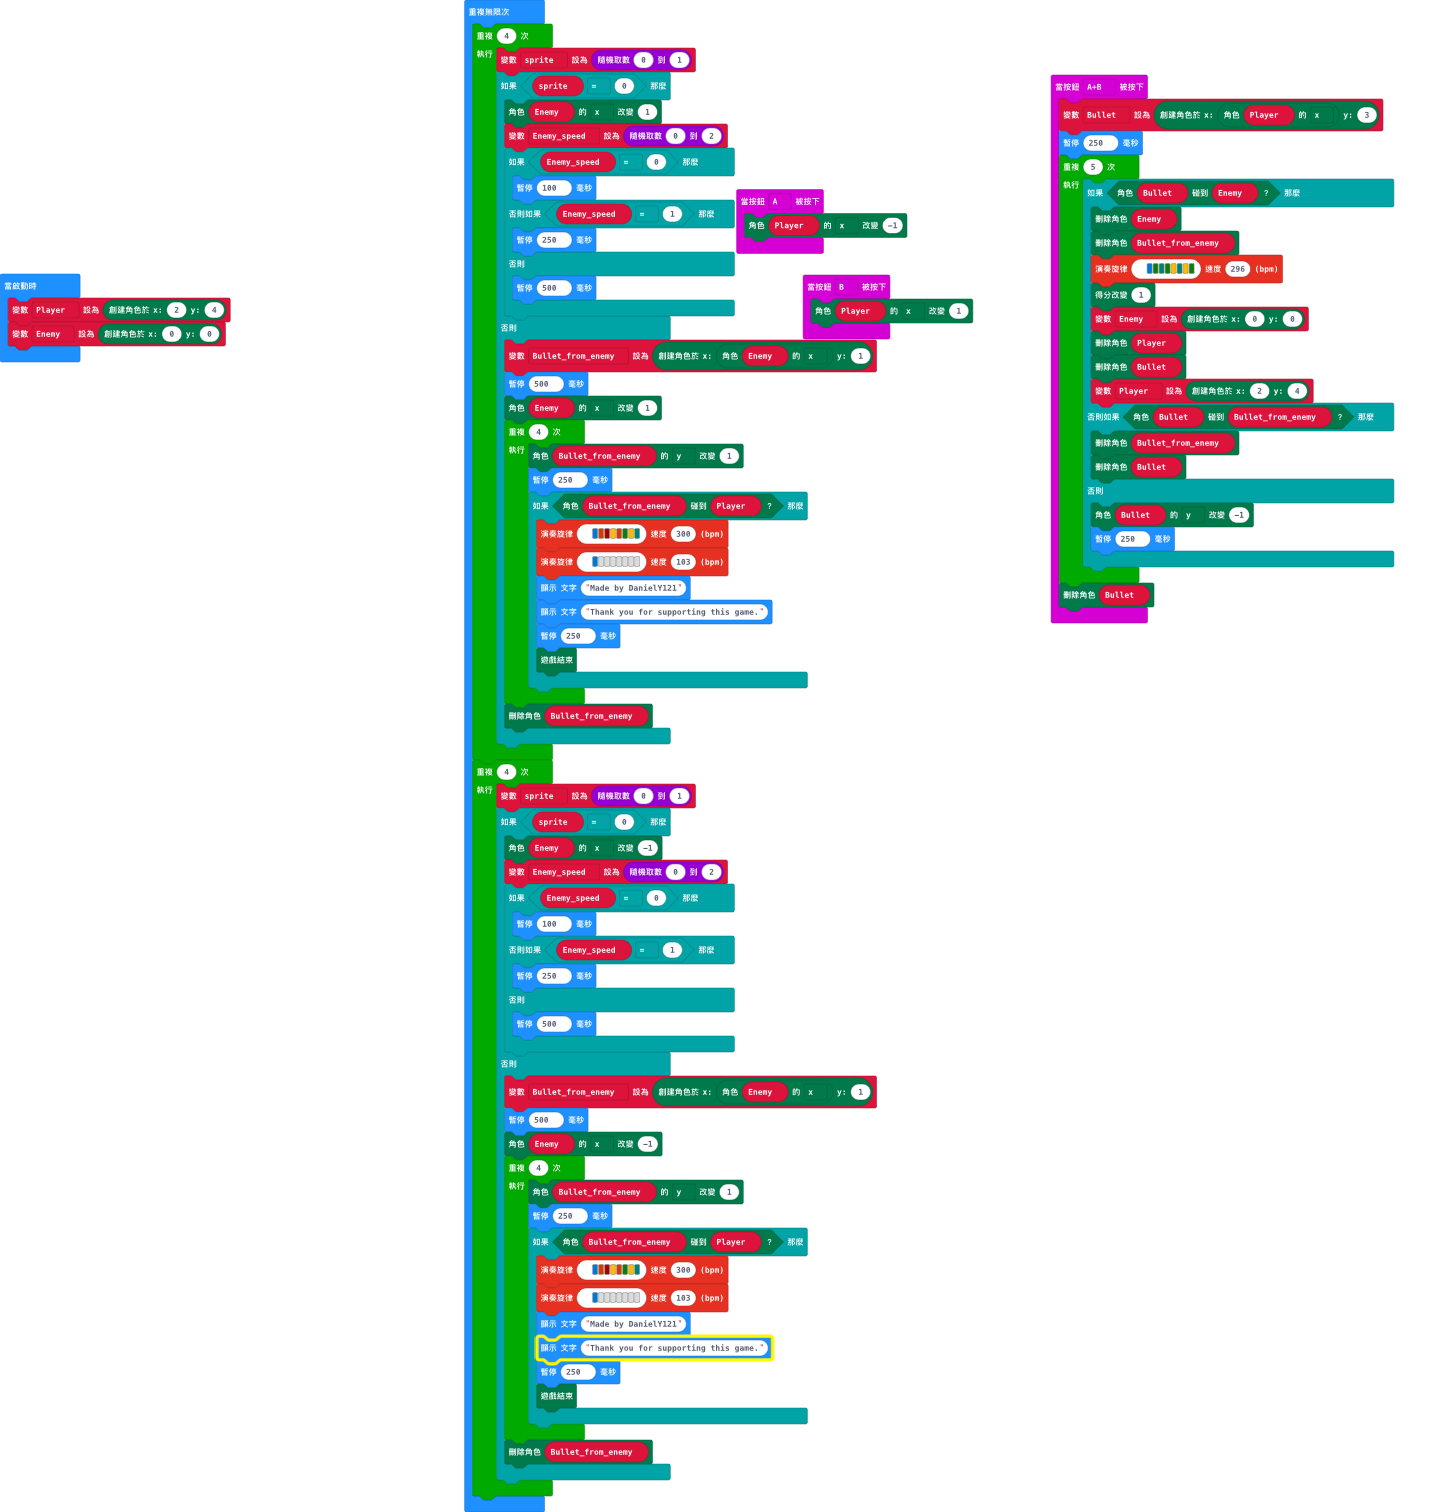
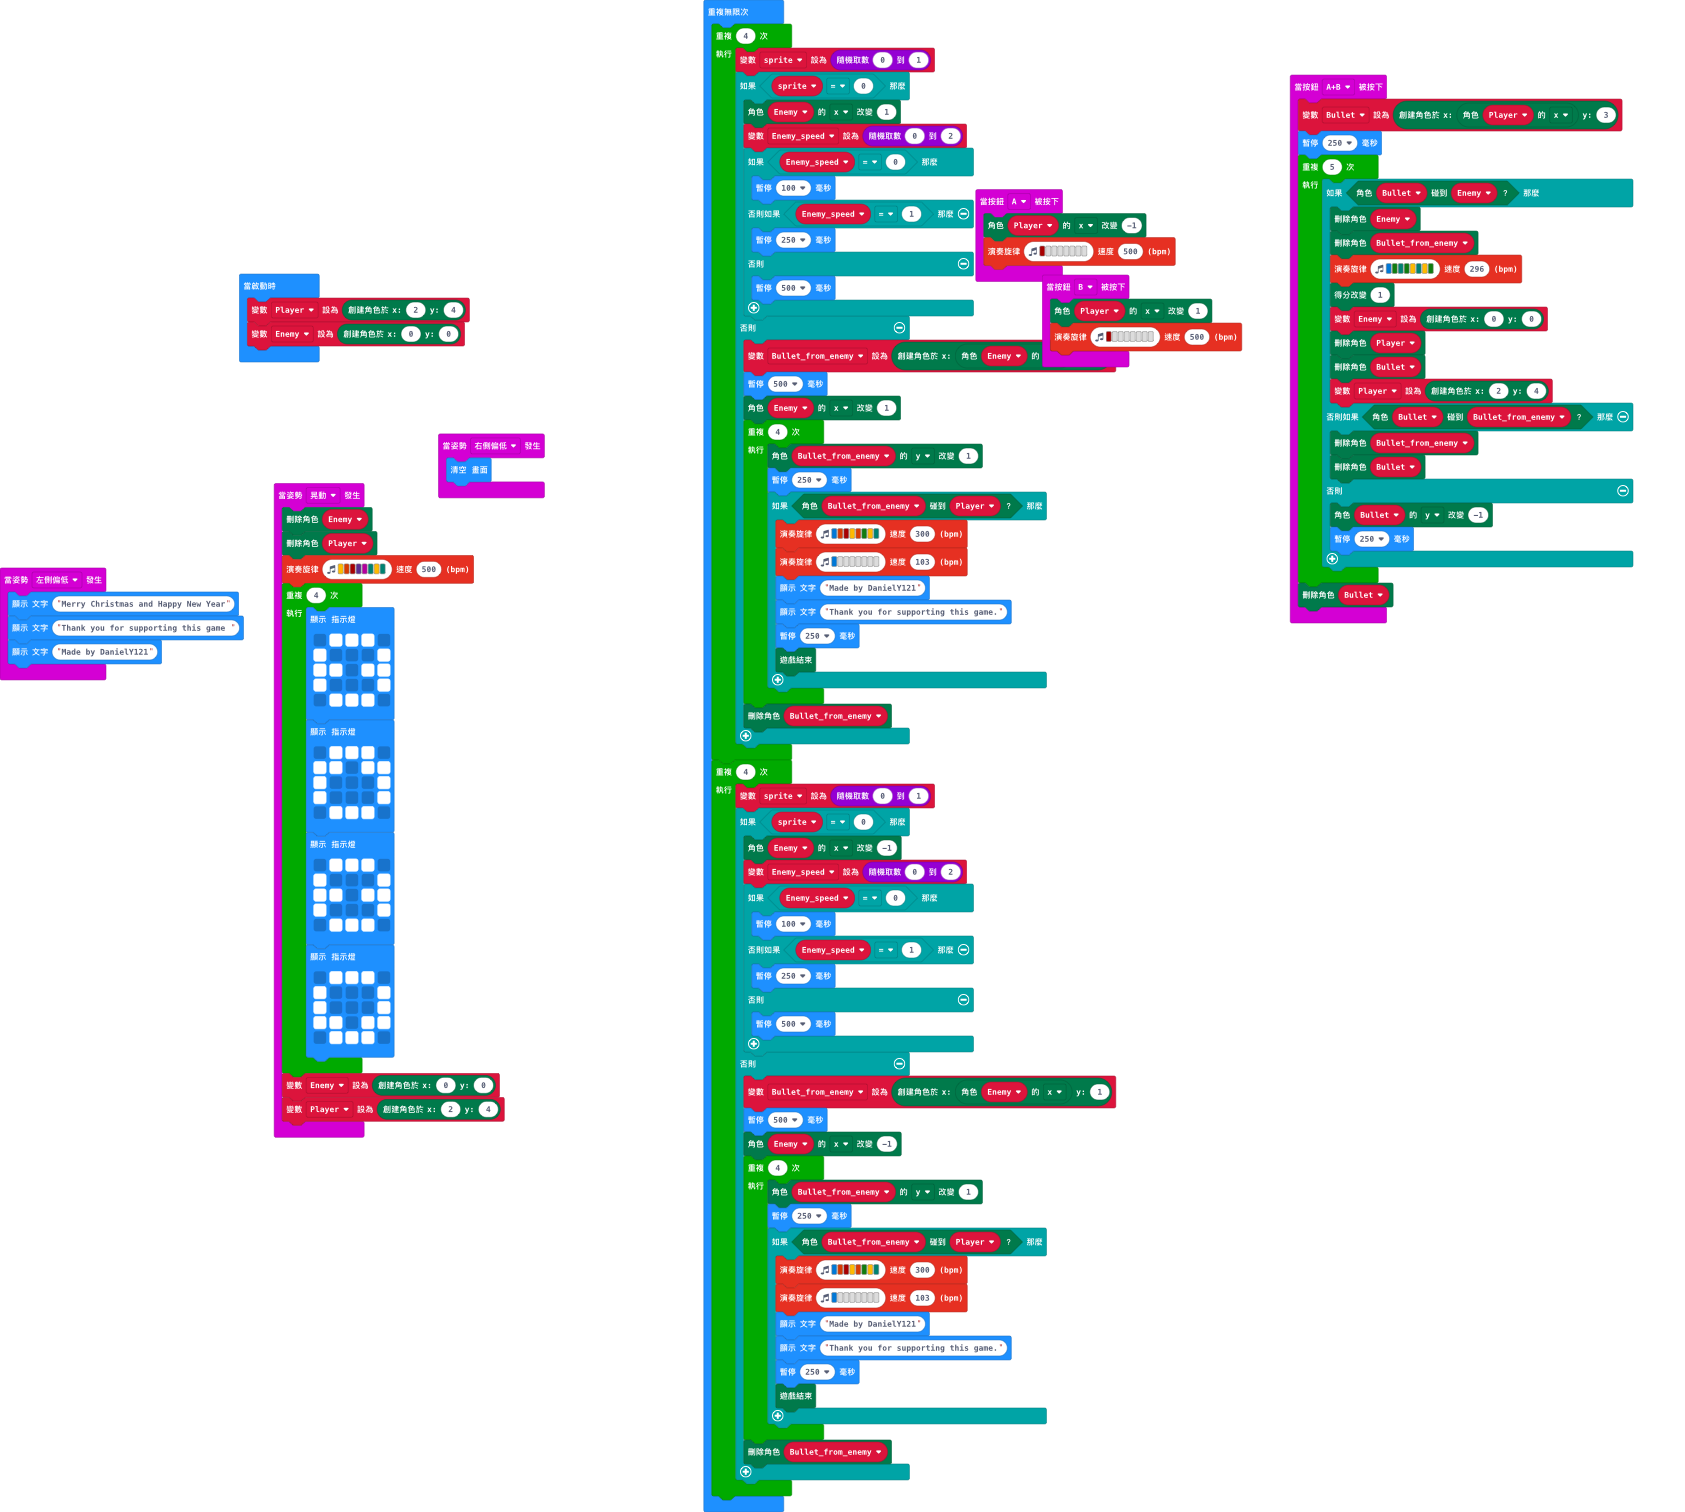
更新 main.blocks, main.ts

Changed region(s): [[0.0, 0.0, 0.9647, 1.0], [0.0, 0.1554, 0.2801, 0.2487], [0.5602, 0.9325, 0.6224, 0.9636]]

diff --git a/main.ts b/main.ts
@@ -1,5 +1,48 @@
+input.onGesture(Gesture.TiltLeft, function () {
+    basic.showString("Merry Christmas and Happy New Year")
+    basic.showString("Thank you for supporting this game ")
+    basic.showString("Made by DanielY121")
+})
 input.onButtonPressed(Button.A, function () {
     Player.change(LedSpriteProperty.X, -1)
+    music.playMelody("C5 - - - - - - - ", 500)
+})
+input.onGesture(Gesture.Shake, function () {
+    Enemy.delete()
+    Player.delete()
+    music.playMelody("A B C5 D C F A F ", 500)
+    for (let index = 0; index < 4; index++) {
+        basic.showLeds(`
+            . # # # .
+            # . . . #
+            # # . # #
+            # . . . #
+            . # # # .
+            `)
+        basic.showLeds(`
+            . # # # .
+            # # . # #
+            # . . . #
+            # . . . #
+            . # # # .
+            `)
+        basic.showLeds(`
+            . # # # .
+            # . . . #
+            # # . # #
+            # . . . #
+            . # # # .
+            `)
+        basic.showLeds(`
+            . # # # .
+            # . . . #
+            # . . . #
+            # # . # #
+            . # # # .
+            `)
+    }
+    Enemy = game.createSprite(0, 0)
+    Player = game.createSprite(2, 4)
 })
 input.onButtonPressed(Button.AB, function () {
     Bullet = game.createSprite(Player.get(LedSpriteProperty.X), 3)
@@ -26,6 +69,10 @@ input.onButtonPressed(Button.AB, function () {
 })
 input.onButtonPressed(Button.B, function () {
     Player.change(LedSpriteProperty.X, 1)
+    music.playMelody("C5 - - - - - - - ", 500)
+})
+input.onGesture(Gesture.TiltRight, function () {
+    basic.clearScreen()
 })
 let Enemy_speed = 0
 let sprite = 0
